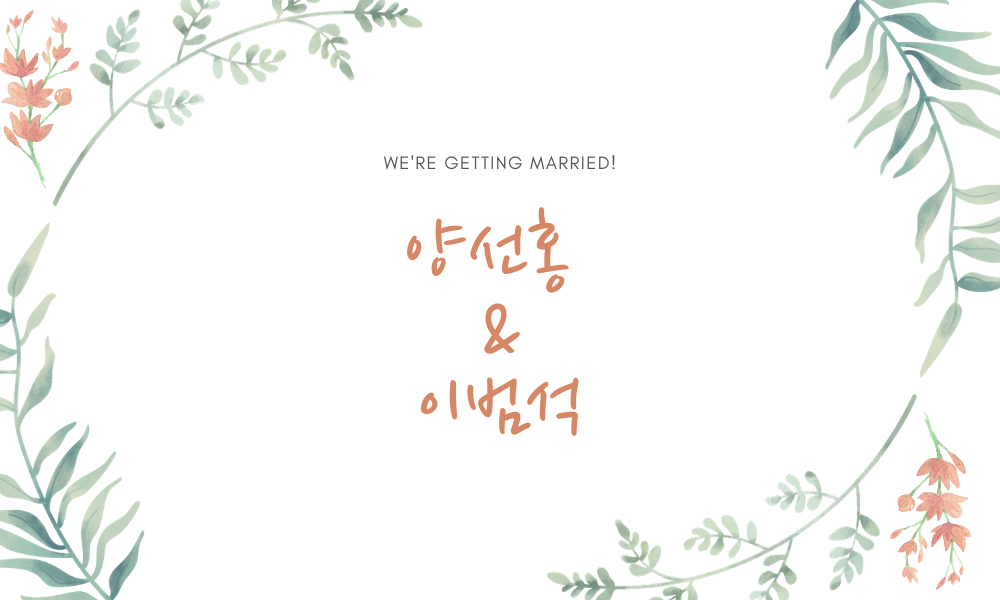
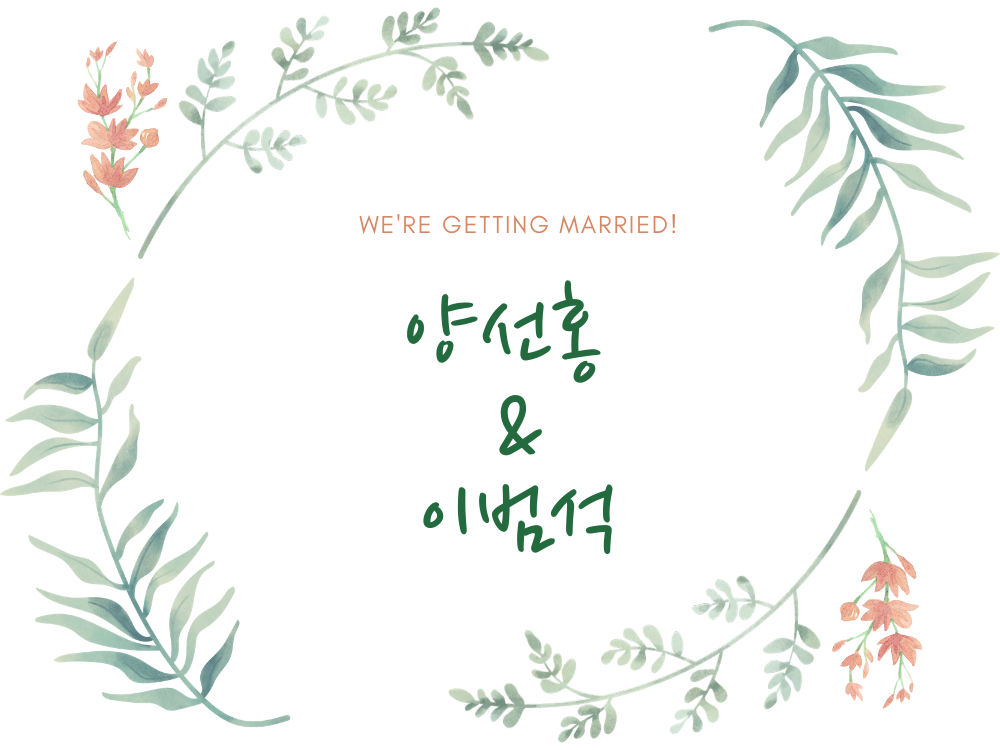
change

diff --git a/_sass/_index.scss b/_sass/_index.scss
@@ -6,10 +6,10 @@
 
 @media only screen and (min-width: 780px){
     .index-en{
-        background-image: url('/assets/img/index-en.png') !important;
+        background-image: url('/assets/img/3.png') !important;
     }
     .index-kr{
-        background-image: url('/assets/img/index-kr.png') !important;
+        background-image: url('/assets/img/1.png') !important;
     }
 
 }
